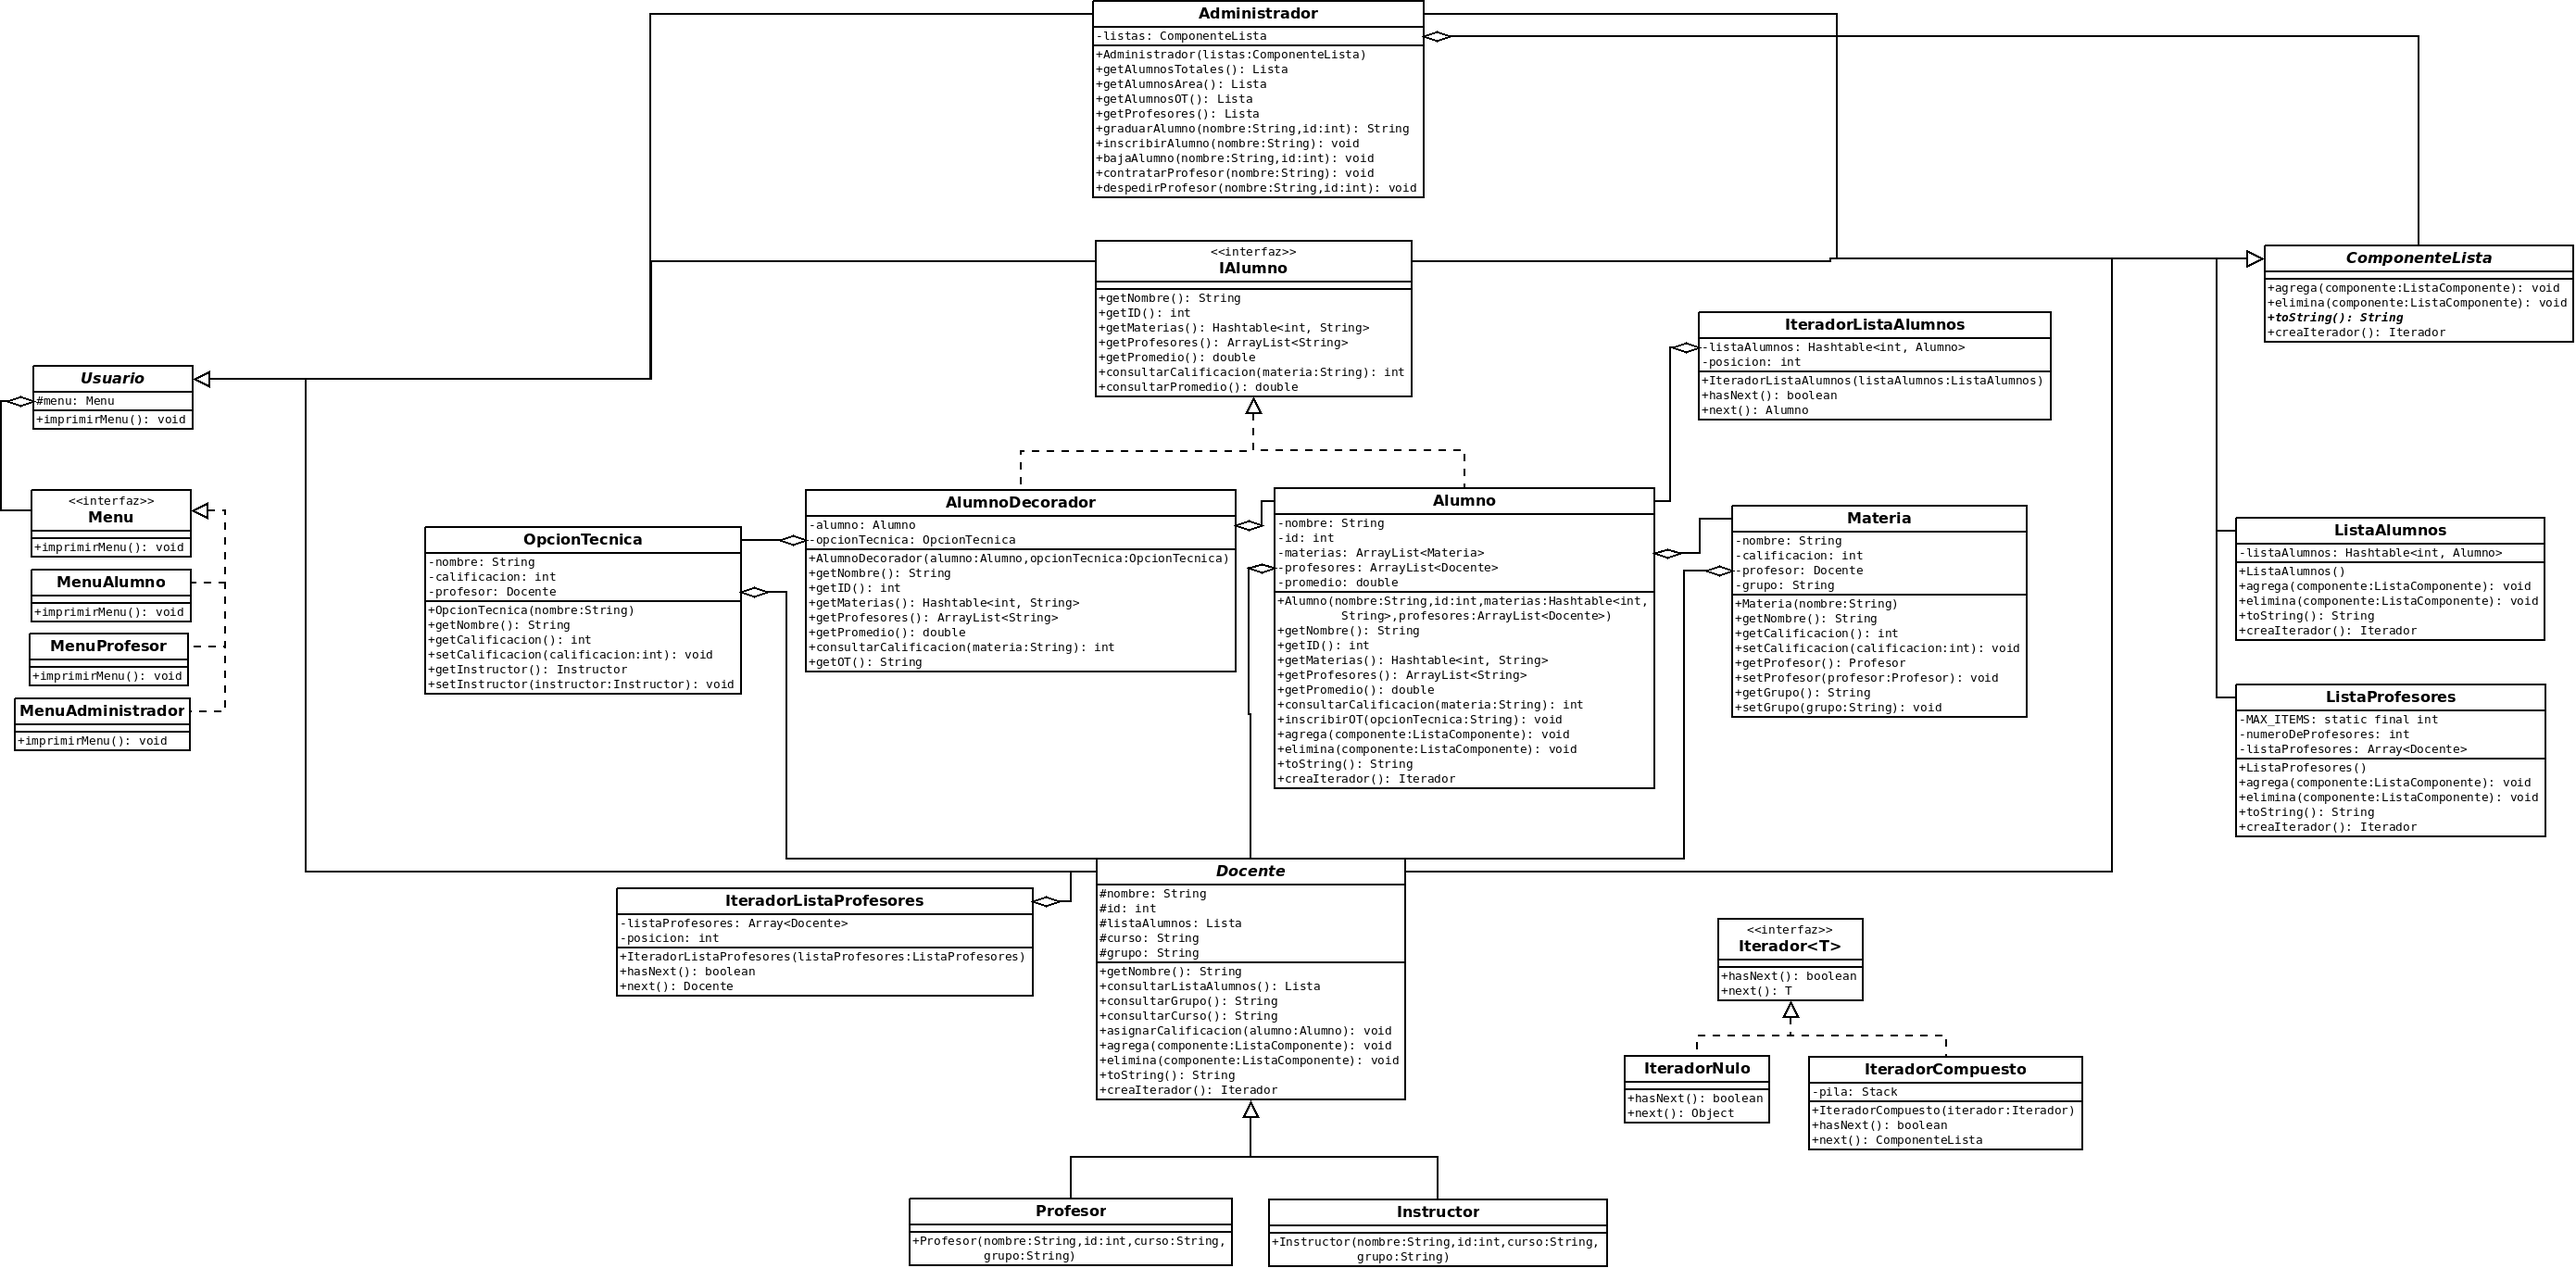
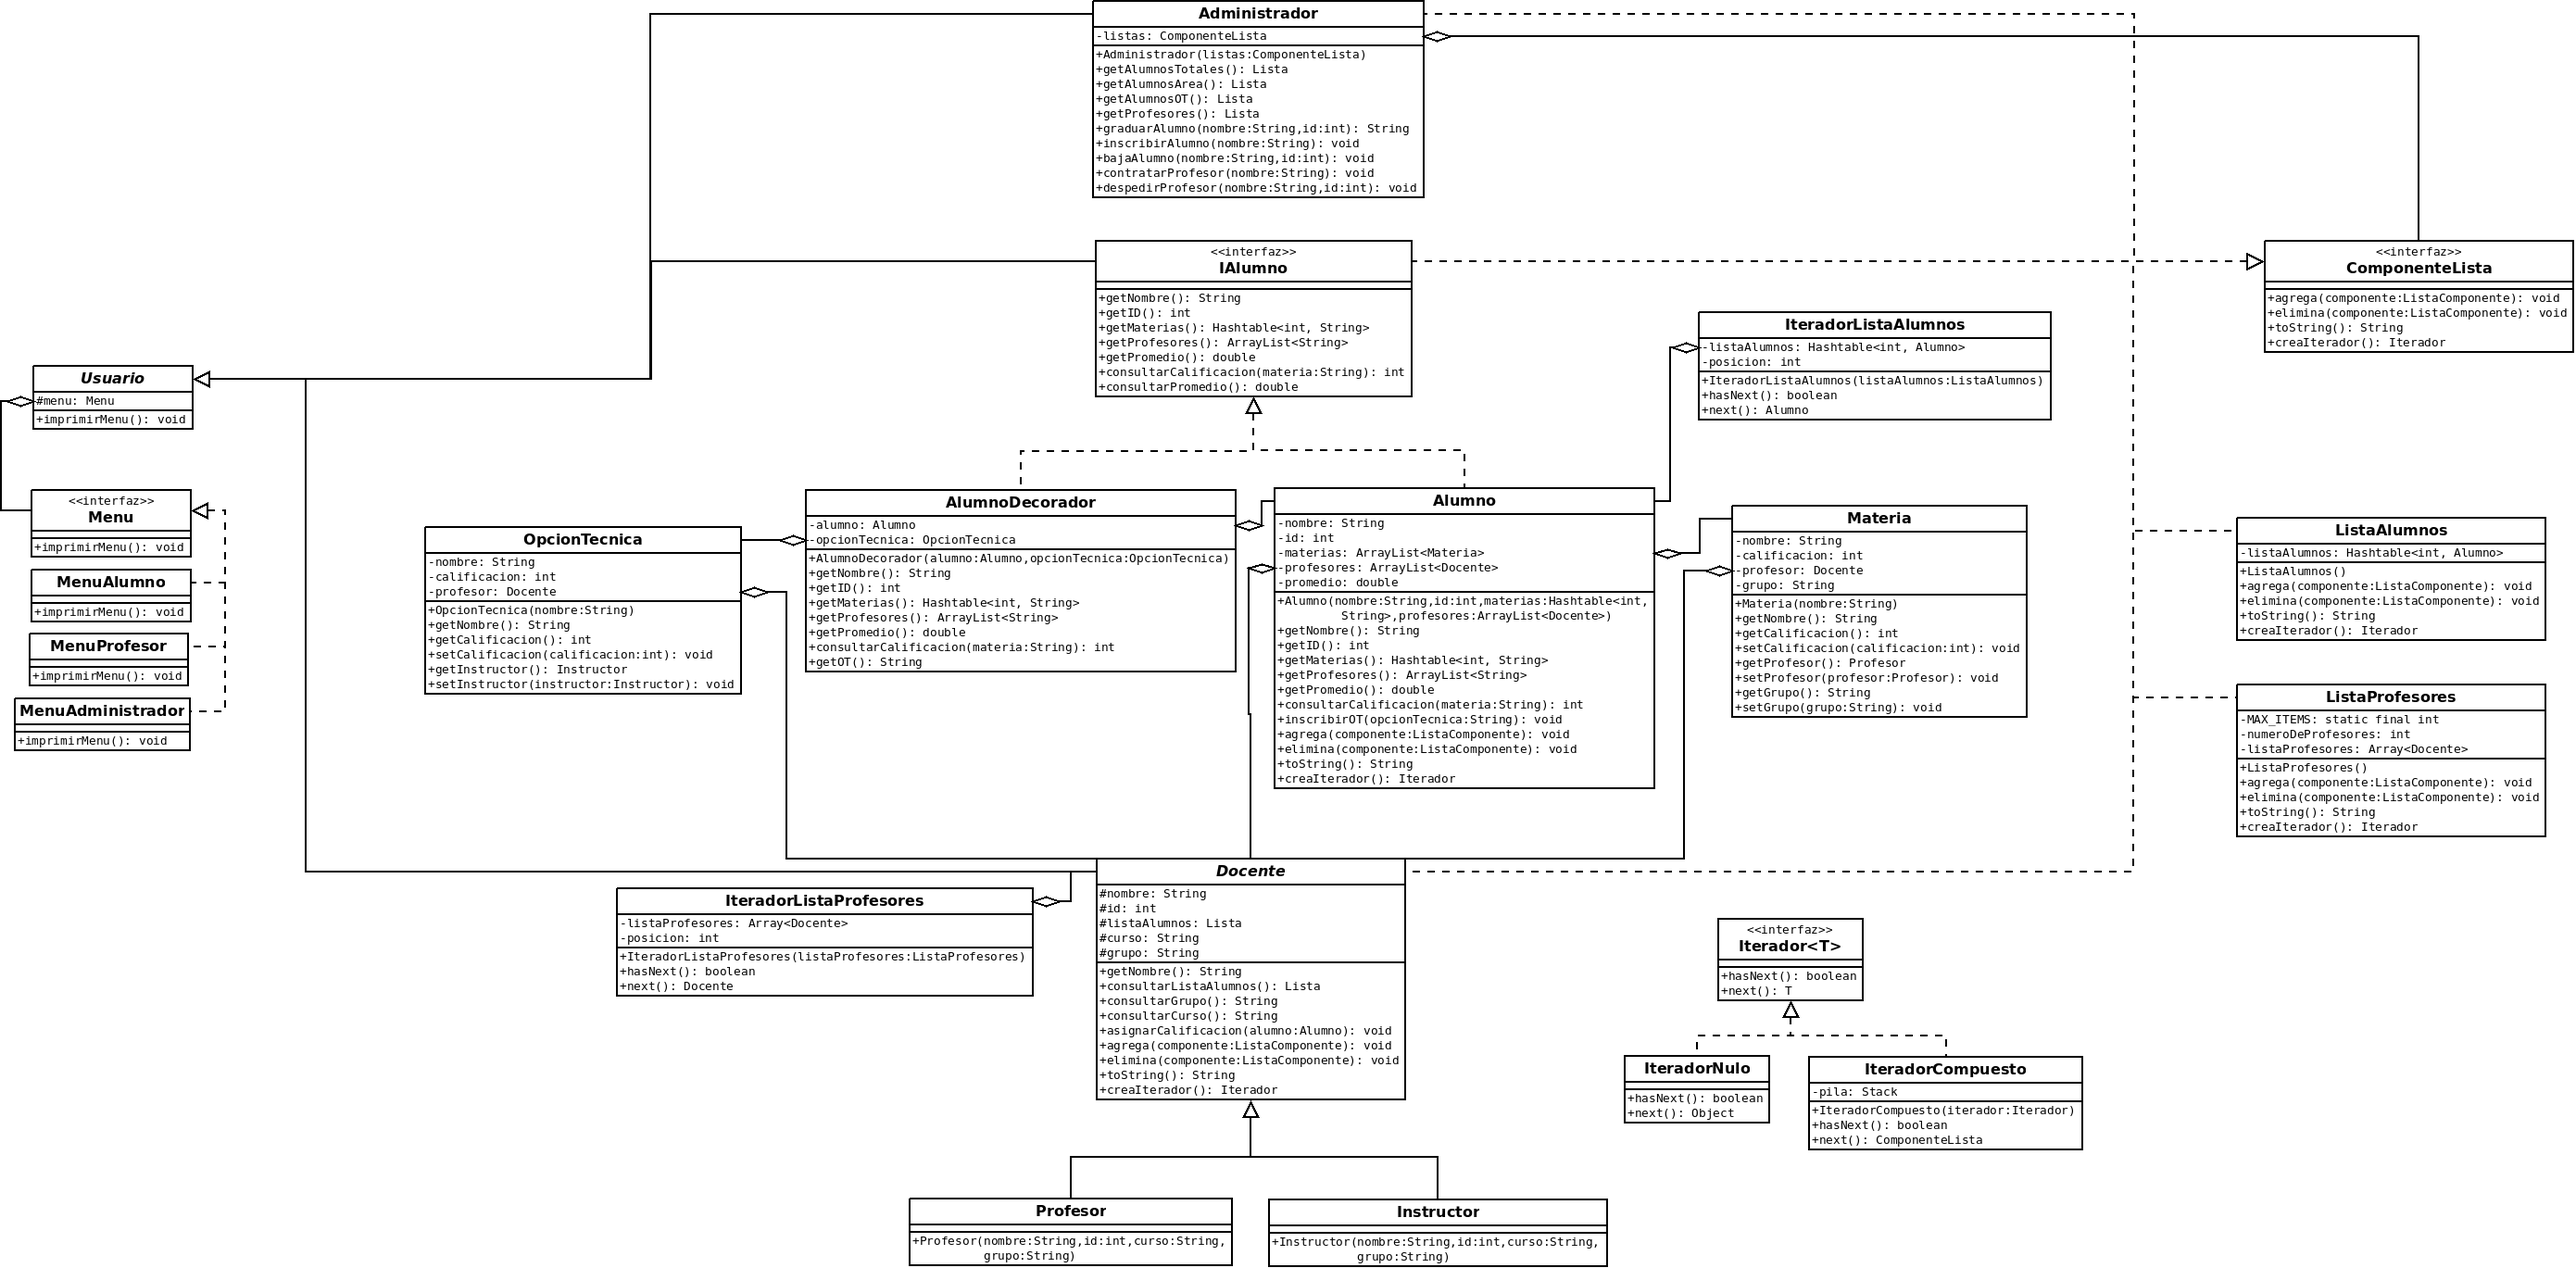
Diagrama ver 2.1

Changed region(s): [[0.8659, 0.1841, 1.0, 0.2761], [0.8659, 0.5522, 0.9896, 0.6443], [0.8659, 0.4295, 0.9896, 0.4909]]

diff --git a/src/main/java/mx/unam/ciencias/myp/Administrador.java b/src/main/java/mx/unam/ciencias/myp/Administrador.java
@@ -1,0 +1,5 @@
+package mx.unam.ciencias.aa;
+
+public class Administrador extends Usuario implements ComponenteLista {
+
+}
